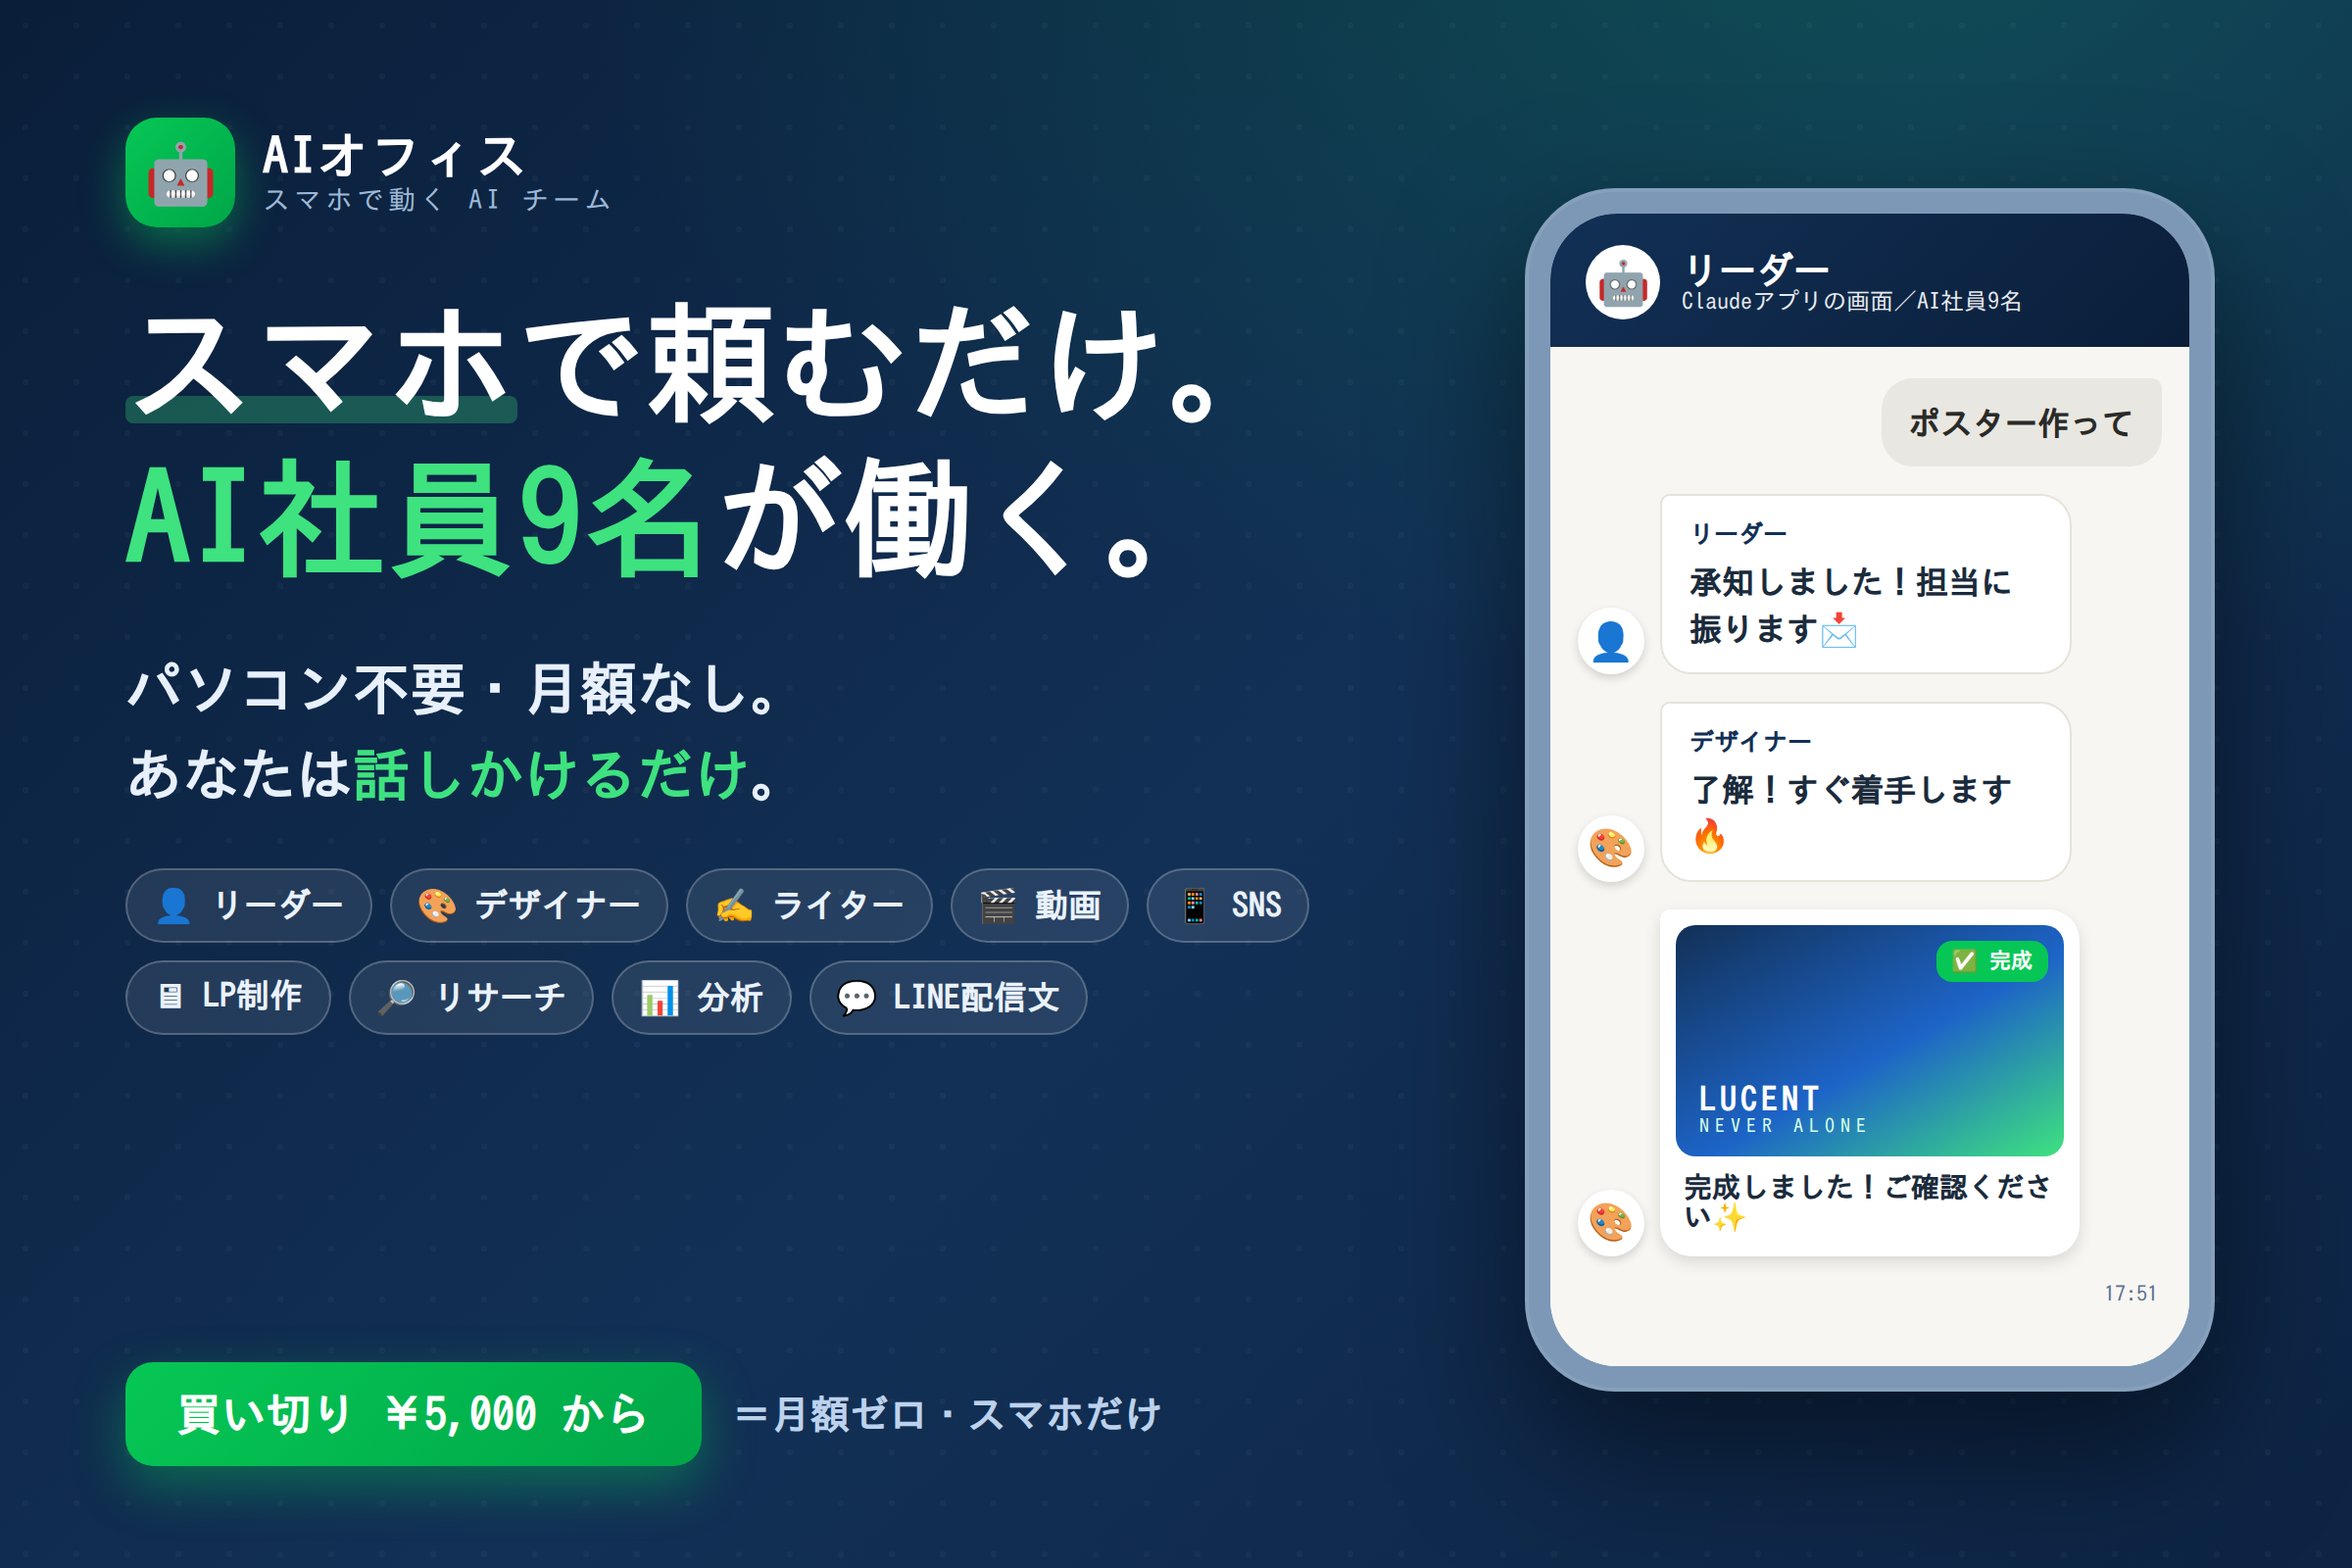
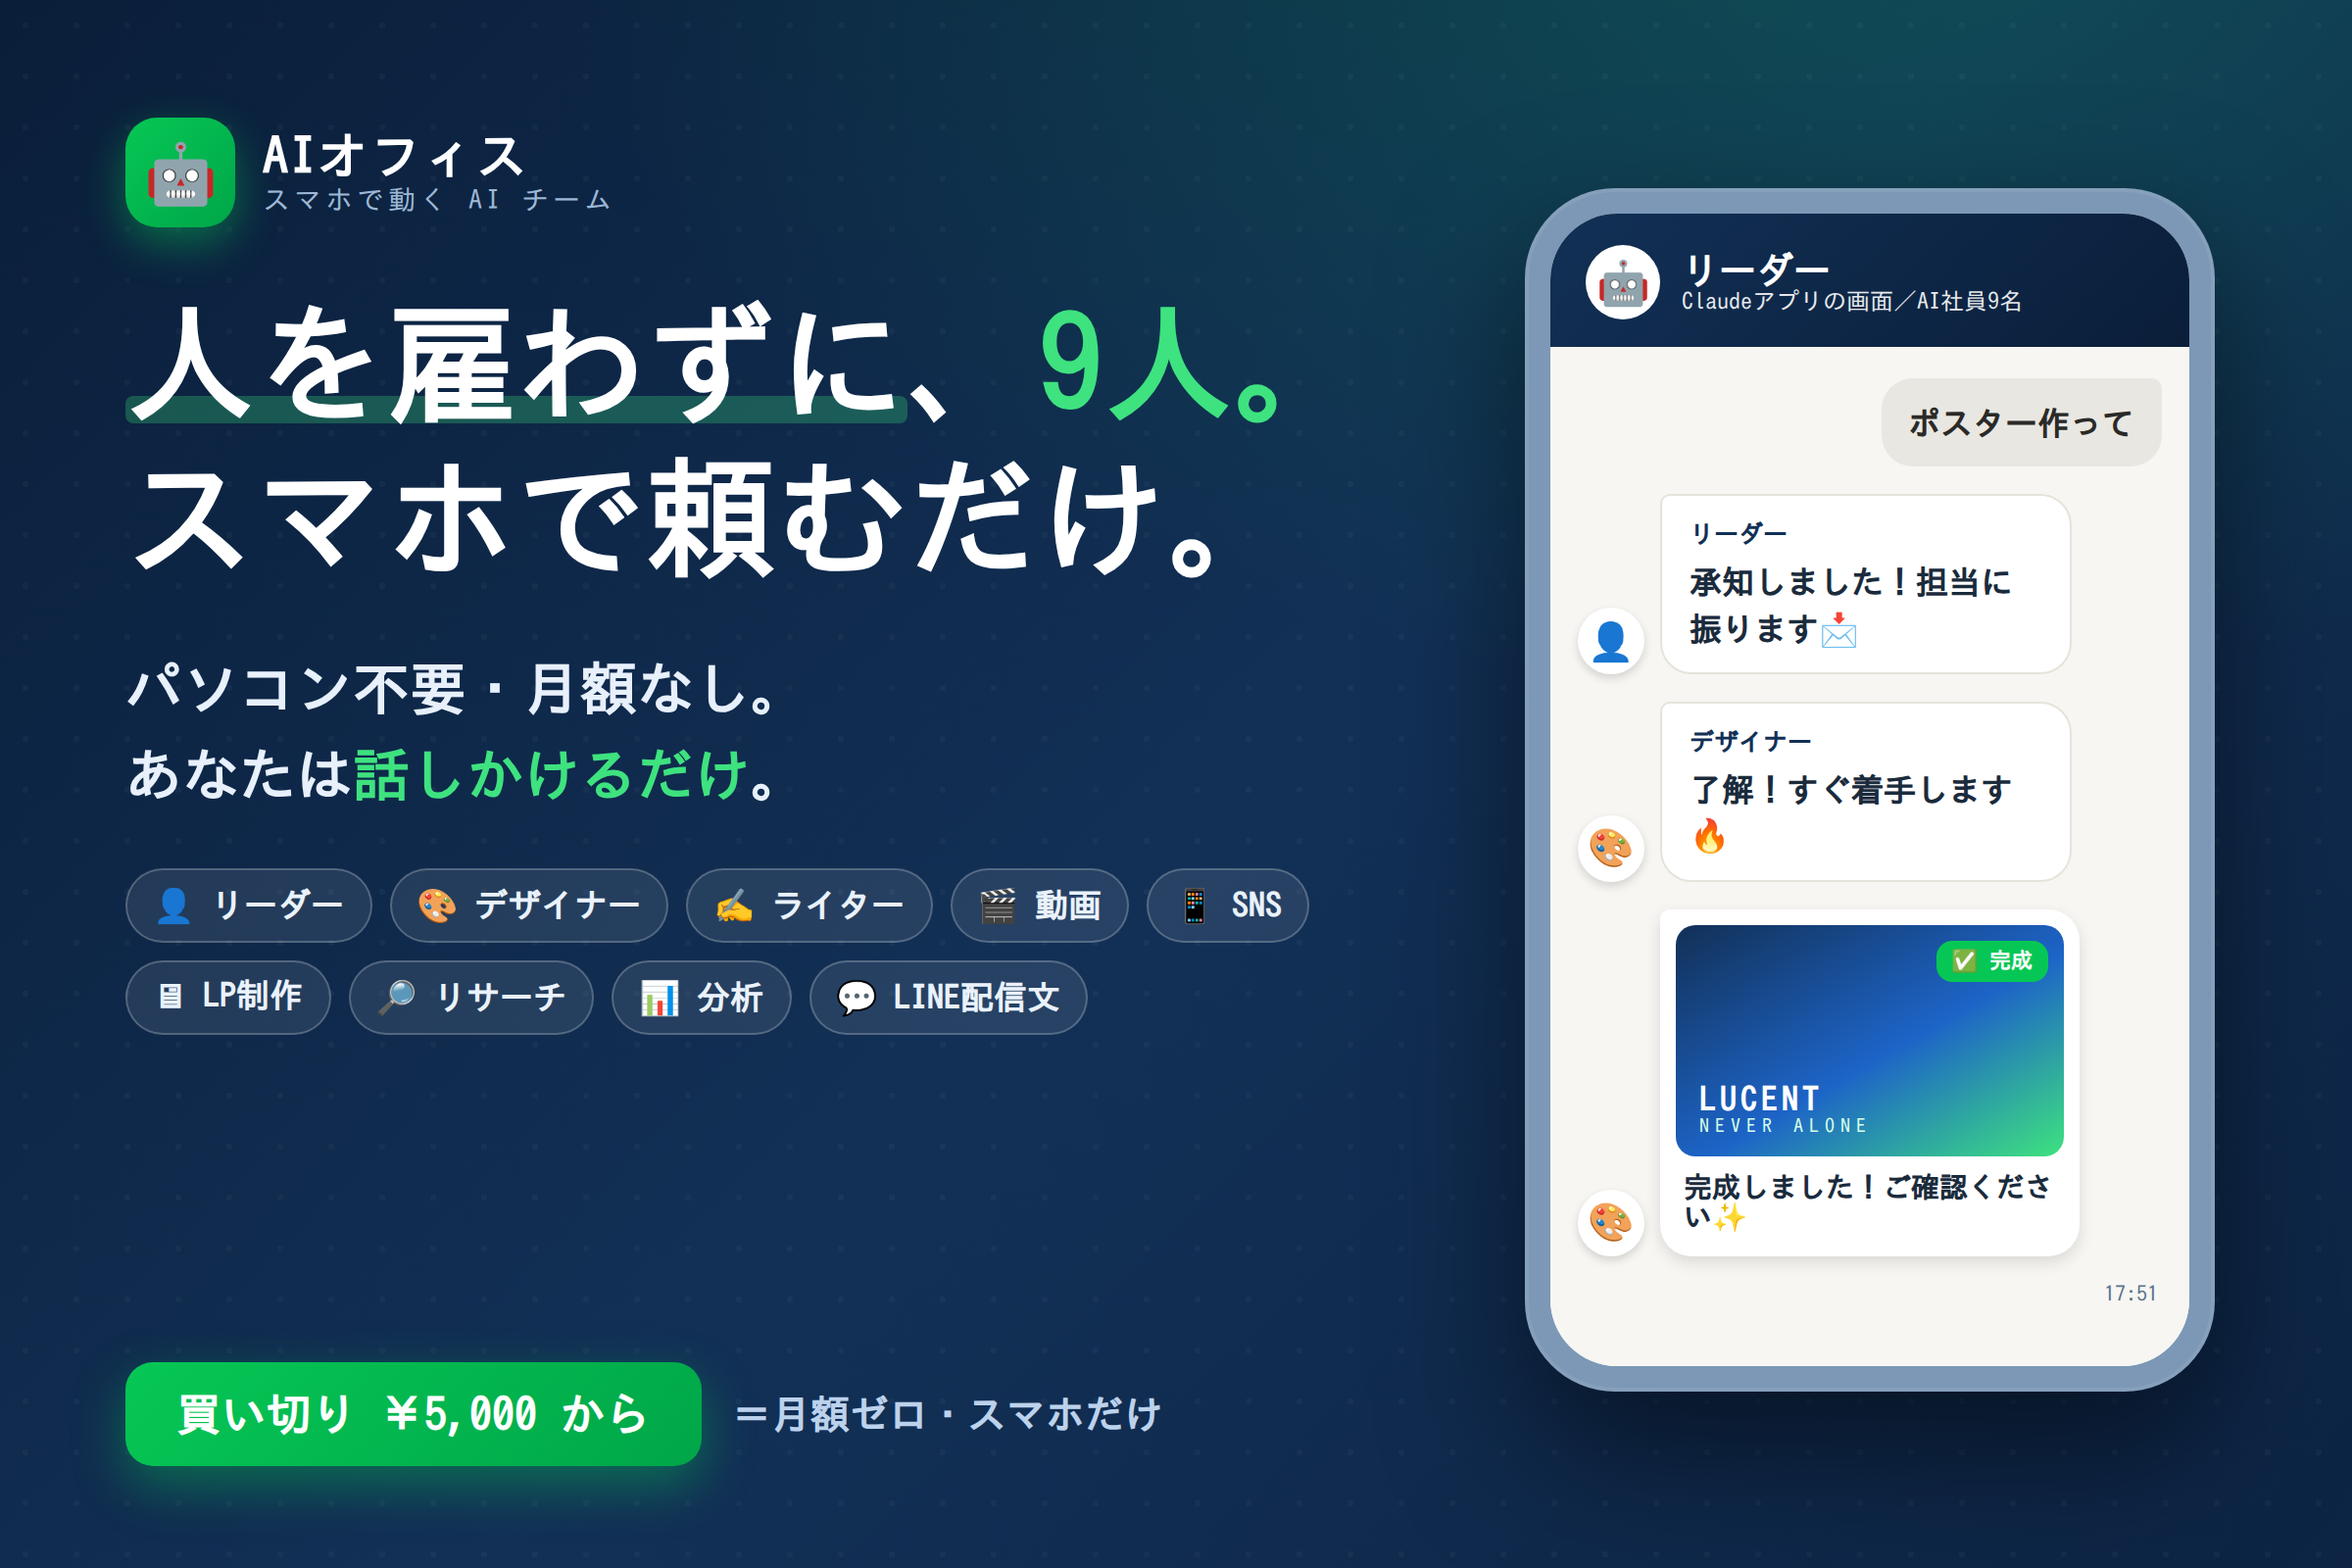
デザイン: サムネ見出しを「人を雇わずに、9人。」に差し替え（タイトルと統一）

Changed region(s): [[0.0312, 0.1875, 0.5625, 0.375]]

diff --git a/ai-office-kit/assets/coconala-starter/thumbnail.html b/ai-office-kit/assets/coconala-starter/thumbnail.html
@@ -105,8 +105,8 @@
       </div>
 
       <div class="head">
-        <span class="u">スマホ</span>で頼むだけ。<br>
-        <span class="g">AI社員9名</span>が働く。
+        <span class="u">人を雇わずに</span>、<span class="g">9人。</span><br>
+        スマホで頼むだけ。
       </div>
 
       <div class="sub">
